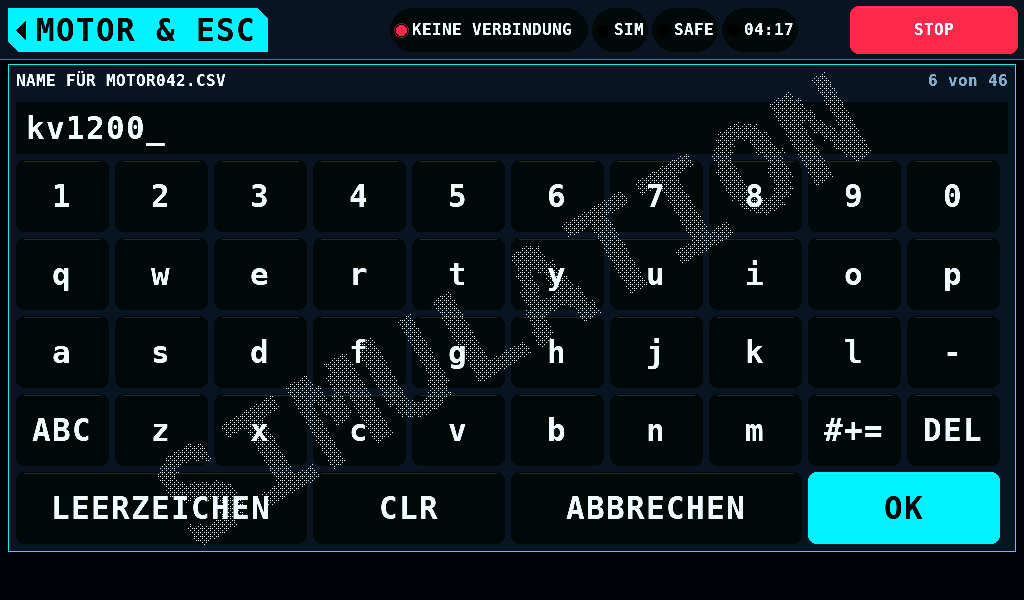
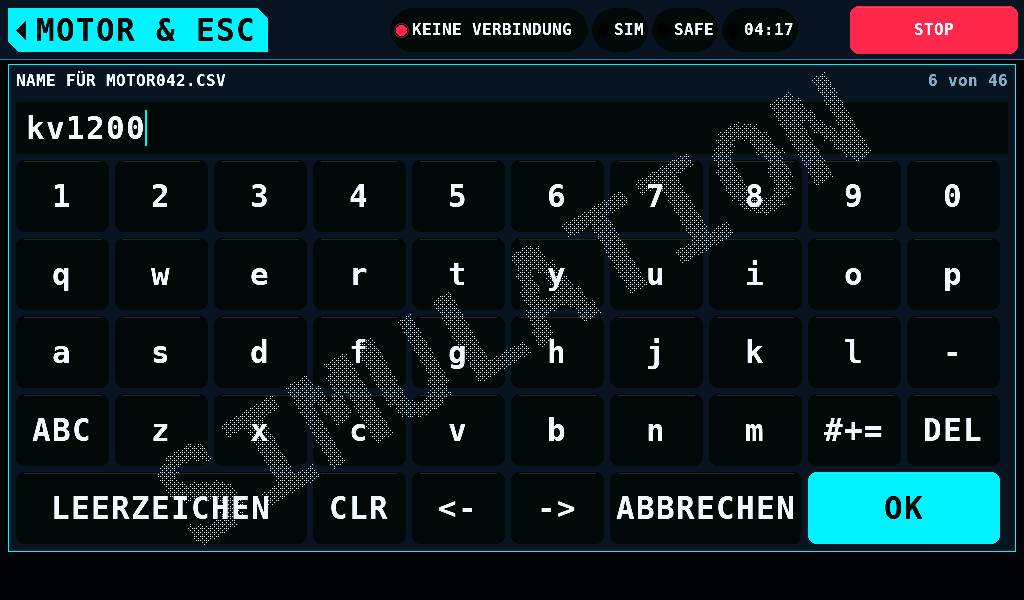
Edit the RENAME LOG label at the name keyboard's cursor
The label keyboard is the file-name keyboard, so it takes its cursor: it
opens at the label's end, <- and -> and a tap in the field move it, a key
types at it and DEL takes the character before it, within the 46-byte
label. The empty-OK answer still reads len, pressed and press_id as the
keyboard keeps them.

Adds a test of the cursor on the label, the motor-logname screenshot with
the new bottom row, the docs' note on it, and the screenshot and view
counts after the rebase onto the cursor.

Changed region(s): [[0.5312, 0.78, 0.7812, 0.9], [0.3125, 0.78, 0.4688, 0.9]]

diff --git a/test/host/test_motor_logname.c b/test/host/test_motor_logname.c
@@ -17,6 +17,7 @@
  * - ok_hands_one_request_over_and_the_answer_is_said
  * - an_empty_ok_gives_the_plain_name_back_or_nothing
  * - a_refused_label_keeps_the_keyboard_open
+ * - the_cursor_edits_the_label_where_it_stands
  * - the_settings_list_hides_the_button_and_program_shows_it
  * - closing_the_keyboard_paints_the_screen_as_before
  *
@@ -368,6 +369,66 @@ TEST_CASE(an_empty_ok_gives_the_plain_name_back_or_nothing)
     CHECK(!motor_screen_log_take(label, sizeof(label)));
 }
 
+TEST_CASE(the_cursor_edits_the_label_where_it_stands)
+{
+    fresh();
+    a_log("MOTOR042_kv1200.CSV");
+    tap(MO_LOGBTN_X, LOG_Y);
+    const ui_textkey_t *k = motor_screen_logname_keyboard();
+    /* The cursor starts at the label's end; <- and -> are in the bottom
+     * row. */
+    CHECK_EQ(k->cur, 6);
+    CHECK(ui_textkey_key_rect(k, UI_TK_LEFT).w > 0);
+    CHECK(ui_textkey_key_rect(k, UI_TK_RIGHT).w > 0);
+    CHECK_STR_EQ(ui_textkey_key_label(k, UI_TK_LEFT), "<-");
+    CHECK_STR_EQ(ui_textkey_key_label(k, UI_TK_RIGHT), "->");
+    /* Two to the left, a key types there. */
+    tap_key(UI_TK_LEFT);
+    tap_key(UI_TK_LEFT);
+    CHECK_EQ(k->cur, 4);
+    type_text("x");
+    CHECK_STR_EQ(k->text, "kv12x00");
+    CHECK_EQ(k->cur, 5);
+    /* DEL takes the character before the cursor. */
+    tap_key(UI_TK_DEL);
+    CHECK_STR_EQ(k->text, "kv1200");
+    /* A tap at the field's left edge puts the cursor at 0. */
+    const gfx_rect_t f = ui_textkey_field_rect(k);
+    CHECK(f.w > 0);
+    tap(f.x + UI_TEXTKEY_FIELD_IN, f.y + f.h / 2);
+    CHECK_EQ(k->cur, 0);
+    type_text("a");
+    CHECK_STR_EQ(k->text, "akv1200");
+    /* -> past the end stays at the end; a tap right of the text too. */
+    for (int i = 0; i < 10; ++i) {
+        tap_key(UI_TK_RIGHT);
+    }
+    CHECK_EQ(k->cur, k->len);
+    tap_key(UI_TK_LEFT);
+    tap(f.x + f.w - UI_TEXTKEY_FIELD_IN - 1, f.y + f.h / 2);
+    CHECK_EQ(k->cur, k->len);
+    /* At 46 bytes a key mid-label is refused, cursor and text kept. */
+    tap_key(UI_TK_CLR);
+    for (int i = 0; i < (int)LOG_LABEL_MAX; ++i) {
+        type_text("k");
+    }
+    tap_key(UI_TK_LEFT);
+    const int at = k->cur;
+    type_text("z");
+    CHECK_EQ(k->len, (int)LOG_LABEL_MAX);
+    CHECK_EQ(k->cur, at);
+    CHECK(strchr(k->text, 'z') == NULL);
+    /* OK asks for the label as edited. */
+    tap_key(UI_TK_CLR);
+    type_text("kv");
+    tap_key(UI_TK_LEFT);
+    type_text("1");
+    tap_key(UI_TK_OK);
+    char label[LOG_LABELLED_SIZE];
+    CHECK(motor_screen_log_take(label, sizeof(label)));
+    CHECK_STR_EQ(label, "k1v");
+}
+
 TEST_CASE(a_refused_label_keeps_the_keyboard_open)
 {
     fresh();
@@ -463,6 +524,7 @@ int main(void)
     RUN(ok_hands_one_request_over_and_the_answer_is_said);
     RUN(an_empty_ok_gives_the_plain_name_back_or_nothing);
     RUN(a_refused_label_keeps_the_keyboard_open);
+    RUN(the_cursor_edits_the_label_where_it_stands);
     RUN(the_settings_list_hides_the_button_and_program_shows_it);
     RUN(closing_the_keyboard_paints_the_screen_as_before);
     free(fb);

diff --git a/shared/ui/motor_logname.c b/shared/ui/motor_logname.c
@@ -8,8 +8,9 @@
  * bench is SAFE with ARM not held, no log file is open, and the MOTOR log
  * closed since power-on is on the card mounted now.  Dimmed, a tap says
  * the first reason in that order in the alert band.  The keyboard is
- * FILES' name keyboard over the body; it types the label alone, and its
- * title names the run by its plain name.
+ * FILES' name keyboard over the body, with its cursor: "<-", "->" and a
+ * tap in the field move it, and it opens at the label's end.  It types
+ * the label alone, and its title names the run by its plain name.
  *
  * SPDX-License-Identifier: MIT
  */
@@ -102,9 +103,11 @@ static bool why_not(char *out, size_t n)
 /*
  * The two calls that reach into the name keyboard (ui_textkey.h).  The
  * field takes LOG_LABEL_MAX bytes, the label behind MOTORnnn_ and before
- * .CSV.  OK on an empty field is the plain name: the file keyboard refuses
- * an empty name, so that one release is answered here, by the same rule
- * the keyboard keeps for a key (the contact that pressed OK lifts on it).
+ * .CSV, the cursor working to that most (ui_textkey.h); the open leaves the
+ * cursor at the label's end.  OK on an empty field is the plain name: the
+ * file keyboard refuses an empty name, so that one release is answered
+ * here, by the same rule the keyboard keeps for a key (the contact that
+ * pressed OK lifts on it).
  */
 
 /**

diff --git a/help/content/de/motor.md b/help/content/de/motor.md
@@ -146,7 +146,7 @@ Ist Auto-Aufzeichnungen unter [SETUP](setup.md#sd-card) > SD CARD EIN, beginnt j
 LOG UMBENENNEN gibt dem seit dem Start des Panels geschlossenen MOTOR-Log ein Label hinter seiner Nummer: Aus `MOTOR042.CSV` wird `MOTOR042_kv1200.CSV`. Der Lauf behält Nummer und Platz unter [Logs](logs.md).
 
 - LOG UMBENENNEN ist ein Tipp. Es wirkt, solange der Prüfstand SAFE ist, ARM nicht gehalten wird, keine Log-Datei offen ist und die Karte des Logs noch steckt. Sonst ist es gedimmt, und ein Tipp nennt den Grund im Alarmband, etwa `Seit dem Start kein MOTOR-Log.`
-- Die Tastatur bearbeitet nur das Label, höchstens 46 Bytes. Sie öffnet mit dem Label der Datei. OK bei leerem Feld entfernt das Label.
+- Die Tastatur bearbeitet nur das Label, höchstens 46 Bytes. Sie öffnet mit dem Label der Datei, der Cursor an seinem Ende; `<-`, `->` und ein Tippen in den Text bewegen den Cursor. OK bei leerem Feld entfernt das Label.
 - Die Tastatur verdeckt ARM. ABBRECHEN oder das Home-Feld schließt sie ohne Änderung.
 - Das Alarmband meldet `Log umbenannt: MOTOR042_kv1200.CSV` oder den Grund, etwa `MOTOR042_kv1200.CSV ist dort bereits vorhanden.`
 - Nach einem Neustart bleibt der Knopf gedimmt, bis der nächste MOTOR-Lauf endet. Ältere Logs benennst du unter [Files](files.md) um.

diff --git a/help/content/en/motor.md b/help/content/en/motor.md
@@ -146,7 +146,7 @@ When Auto logs is ON under [SETUP](setup.md#sd-card) > SD CARD, each switch to A
 RENAME LOG gives the MOTOR log closed since the panel started a label behind its number: `MOTOR042.CSV` becomes `MOTOR042_kv1200.CSV`. The run keeps its number and its place in [Logs](logs.md).
 
 - RENAME LOG is a tap. It works while the bench is SAFE, ARM is not held, no log file is open and the log's card is still in the slot. Otherwise it is dimmed, and a tap names the reason in the alert band, such as `No MOTOR log since the start.`
-- The keyboard edits the label alone, up to 46 bytes. It opens with the label the file has. OK on an empty field removes the label.
+- The keyboard edits the label alone, up to 46 bytes. It opens with the label the file has, the cursor at its end; `<-`, `->` and a tap in the text move the cursor. OK on an empty field removes the label.
 - The keyboard covers ARM. CANCEL or the home tag closes it without a change.
 - The alert band says `Log renamed: MOTOR042_kv1200.CSV`, or why not, such as `MOTOR042_kv1200.CSV already exists there.`
 - After a restart the button stays dimmed until the next MOTOR run ends. Rename older logs in [Files](files.md).

diff --git a/STATUS.md b/STATUS.md
@@ -1906,8 +1906,8 @@ the suite executables: `sense_trace_tool`, `tools/sense_trace.py` on a synthetic
 Coverage floors: 94% overall, 85% for every file. `tools/coverage.py --check` fails on drift
 of the table below and of the figure in the two READMEs, and on a C file under `shared/` or
 a core file under `protocols/` that is in neither of its two lists, is not compiled, or has
-no counters. `render_ui.py --check` holds 926 committed screenshots to the current render,
-463 in English and the same 463 in German, and `render_ui.py --fit` fails on a string that
+no counters. `render_ui.py --check` holds 928 committed screenshots to the current render,
+464 in English and the same 464 in German, and `render_ui.py --fit` fails on a string that
 overflows where it is drawn, in either language, except an English overflow it lists as
 known (none listed). `image_slot.py` holds the panel image to the smaller of its two update
 slots.

diff --git a/docs/Screens-de.md b/docs/Screens-de.md
@@ -1329,7 +1329,8 @@ Ein Tipp öffnet die [Tastatur für Namen](#die-tastatur-für-namen) über dem
 Inhalt, mit dem einfachen Namen des Laufs im Titel: `NAME FÜR
 MOTOR042.CSV`. Das Feld enthält nur das Label, höchstens 46 Bytes: die 59
 Bytes eines Namens ohne `MOTOR042_` und `.CSV`. Es öffnet mit dem Label der
-Datei oder leer. OK weist ein Label ab wie die Tastatur einen Namen, mit
+Datei oder leer, der Cursor an seinem Ende; `<-`, `->` und ein Tippen ins
+Feld bewegen den Cursor wie bei einem Dateinamen. OK weist ein Label ab wie die Tastatur einen Namen, mit
 dem Grund neben dem Titel: eines der Zeichen `" * / : < > ? \ |`, oder ein
 Leerzeichen oder Punkt am Anfang oder Ende. OK bei leerem Feld gibt einem
 Log mit Label den einfachen Namen zurück; bei einem Log ohne Label schließt

diff --git a/docs/Screens.md b/docs/Screens.md
@@ -1229,7 +1229,9 @@ MOTOR run ends. [Files](#files) renames older logs.
 A tap opens the [name keyboard](#the-name-keyboard) over the body, titled
 with the run's plain name, `NAME FOR MOTOR042.CSV`. The field holds the
 label alone, up to 46 bytes: the 59 bytes of a name less `MOTOR042_` and
-`.CSV`. It opens with the label the log carries, or empty. OK refuses a
+`.CSV`. It opens with the label the log carries, or empty, the cursor
+at its end; `<-`, `->` and a tap in the field move the cursor as for a
+file name. OK refuses a
 label as the keyboard refuses a name, with the reason beside the title:
 any of `" * / : < > ? \ |`, or a space or full stop at an end. OK on an
 empty field gives a labelled log its plain name back; on a plain log it

diff --git a/CHANGELOG.md b/CHANGELOG.md
@@ -44,7 +44,8 @@ history is in git.
   button in the strip row on LIVE and PROGRAM's list, gives the MOTOR log
   closed since power-on a label: `MOTOR042.CSV` becomes
   `MOTOR042_kv1200.CSV`. The name keyboard over the body edits the label
-  alone, up to 46 bytes; OK on an empty field gives the plain name back.
+  alone, up to 46 bytes, with its cursor starting at the label's end; OK
+  on an empty field gives the plain name back.
   The button acts only while the bench is SAFE with ARM not held, no log
   file is open and the log's card is still mounted; dimmed, a tap names
   the reason in the alert band. The logger renames the closed file as a

diff --git a/docs/Language.md b/docs/Language.md
@@ -315,7 +315,7 @@ lines is left with conflict markers.
 python3 tools/render_ui.py --fit
 ```
 
-builds the renderer with `GFX_TEXT_TRACE`, draws all 643 views in English and
+builds the renderer with `GFX_TEXT_TRACE`, draws all 644 views in English and
 in German, and fails when a string in either language
 
 - is wider than the box `gfx_text_in()` was given,

diff --git a/docs/Language-de.md b/docs/Language-de.md
@@ -328,7 +328,7 @@ Konfliktmarkierungen stehen.
 python3 tools/render_ui.py --fit
 ```
 
-baut den Renderer mit `GFX_TEXT_TRACE`, zeichnet alle 643 Ansichten auf
+baut den Renderer mit `GFX_TEXT_TRACE`, zeichnet alle 644 Ansichten auf
 Englisch und auf Deutsch und schlägt fehl, wenn ein Text in einer der beiden
 Sprachen
 
